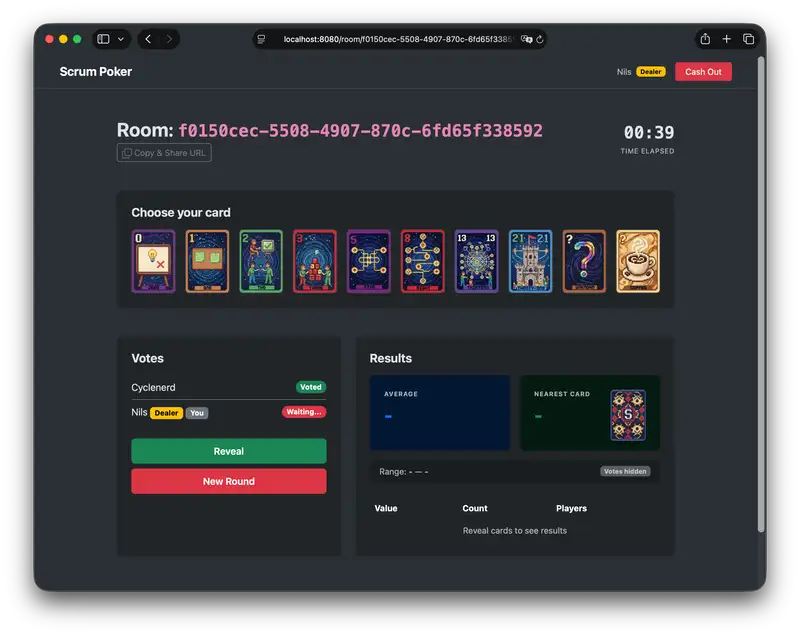
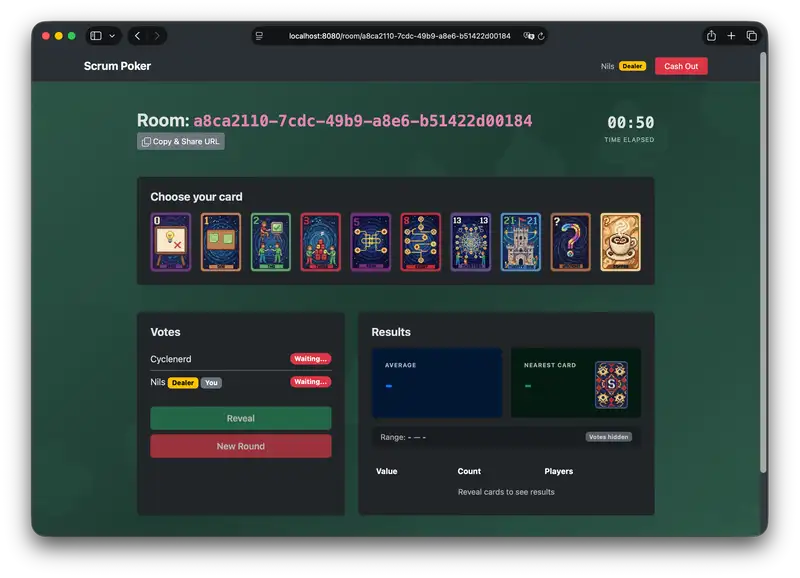
background

diff --git a/templates/room.html b/templates/room.html
@@ -10,6 +10,36 @@
     <link rel="icon" type="image/png" sizes="192x192" href="/static/img/icon/192x192.png">
     <link href="https://cdn.jsdelivr.net/npm/bootstrap@5.3.3/dist/css/bootstrap.min.css" rel="stylesheet">
     <style>
+        body::before {
+            content: '';
+            position: fixed;
+            top: 0;
+            left: 0;
+            width: 100%;
+            height: 100%;
+            z-index: -1;
+            background: linear-gradient(135deg, #2d5a4a 0%, #1e3d32 50%, #2d5a4a 100%);
+            opacity: 0.95;
+        }
+        
+        body::after {
+            content: '♠ ♣ ♥ ♦ ♠ ♣ ♥ ♦ ♠ ♣ ♥ ♦ ♠ ♣ ♥ ♦ ♠ ♣ ♥ ♦ ♠ ♣ ♥ ♦ ♠ ♣ ♥ ♦ ♠ ♣ ♥ ♦ ♠ ♣ ♥ ♦ ♠ ♣ ♥ ♦ ♠ ♣ ♥ ♦ ♠ ♣ ♥ ♦ ♠ ♣ ♥ ♦ ♠ ♣ ♥ ♦ ♠ ♣ ♥ ♦ ♠ ♣ ♥ ♦ ♠ ♣ ♥ ♦ ♠ ♣ ♥ ♦ ♠ ♣ ♥ ♦ ♠ ♣ ♥ ♦ ♠ ♣ ♥ ♦ ♠ ♣ ♥ ♦ ♠ ♣ ♥ ♦ ♠ ♣ ♥ ♦ ♠ ♣ ♥ ♦ ♠ ♣ ♥ ♦ ♠ ♣ ♥ ♦ ♠ ♣ ♥ ♦ ♠ ♣ ♥ ♦ ♠ ♣ ♥ ♦ ♠ ♣ ♥ ♦ ♠ ♣ ♥ ♦ ♠ ♣ ♥ ♦';
+            position: fixed;
+            top: 0;
+            left: 0;
+            width: 100%;
+            height: 100%;
+            z-index: -1;
+            font-size: 120px;
+            line-height: 1.8;
+            color: rgba(40, 80, 65, 0.4);
+            text-align: center;
+            word-wrap: break-word;
+            overflow: hidden;
+            transform: rotate(-15deg) scale(1.5);
+            pointer-events: none;
+        }
+
         .js-card {
             transition: all 0.3s ease;
             perspective: 1000px;
@@ -501,6 +531,7 @@
             }
             connectStream();
         });
+
     </script>
 </head>
 
@@ -531,7 +562,7 @@
                             <h1 class="h2 fw-bold mb-1">Room: <code id="roomId">{{.RoomID}}</code></h1>
                         </div>
                         <p class="mb-0">
-                            <button class="btn btn-outline-secondary btn-sm" onclick="copyRoomId()"
+                            <button class="btn btn-secondary btn-sm" onclick="copyRoomId()"
                                 title="Copy Room ID">
                                 <svg xmlns="http://www.w3.org/2000/svg" width="16" height="16" fill="currentColor"
                                     class="bi bi-copy" viewBox="0 0 16 16" id="copyIcon">
